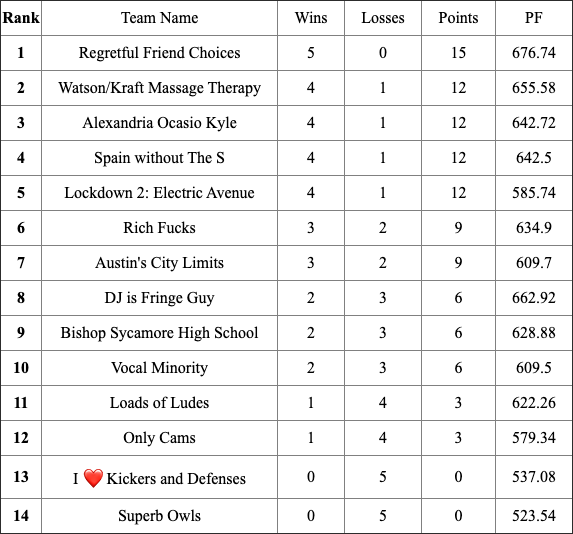
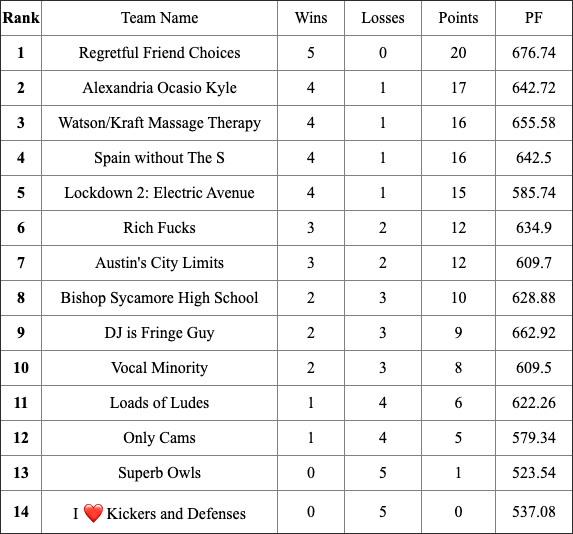
fix top7 points not being counted in standings

diff --git a/src/fantasy/utilities/standings.js b/src/fantasy/utilities/standings.js
@@ -1,9 +1,10 @@
 import client from "../client";
-const fs = require('fs');
+const fs = require("fs");
 
 export async function generateStandings(weekNumber) {
+  const weeks = parseInt(weekNumber);
   const teams = await getTeams();
-  const weeklyScores = await getAllBoxscores(weekNumber);
+  const weeklyScores = await getAllBoxscores(weeks, teams);
   const rankings = createRankings(weeklyScores, teams);
   return rankings;
 }
@@ -30,18 +31,18 @@ async function getTeams() {
   return updatedTeams;
 }
 
-async function getAllBoxscores(finishedWeeks) {
+async function getAllBoxscores(finishedWeeks, teams) {
   const allWeeks = [];
 
   for (let i = 1; i <= finishedWeeks; i++) {
-    const week = await getBoxscoresForWeek(i);
+    const week = await getBoxscoresForWeek(i, teams);
     allWeeks.push(week);
   }
 
   return [...allWeeks];
 }
 
-async function getBoxscoresForWeek(weekNumber) {
+async function getBoxscoresForWeek(weekNumber, teams) {
   const weekTotals = [];
   const boxScores = await client.getBoxscoreForWeek({
     seasonId: 2021,
@@ -50,8 +51,8 @@ async function getBoxscoresForWeek(weekNumber) {
   });
   const data = boxScores.map((score) => {
     const { homeTeamId, awayTeamId } = score;
-    const homeTeam = formattedTeams.find((team) => team.id === homeTeamId).name;
-    const awayTeam = formattedTeams.find((team) => team.id === awayTeamId).name;
+    const homeTeam = teams.find((team) => team.id === homeTeamId).name;
+    const awayTeam = teams.find((team) => team.id === awayTeamId).name;
 
     weekTotals.push({ homeTeam, points: score.homeScore, id: homeTeamId });
     weekTotals.push({ awayTeam, points: score.awayScore, id: awayTeamId });
@@ -98,4 +99,8 @@ function rankTeams(a, b) {
   return a.leaguePoints === b.leaguePoints
     ? b.totalPointsScored - a.totalPointsScored
     : b.leaguePoints - a.leaguePoints;
+}
+
+function getTop7Points(a, b) {
+  return b.points - a.points;
 }

diff --git a/src/bot/utilities/commands/standings.js b/src/bot/utilities/commands/standings.js
@@ -13,7 +13,7 @@ export default async function handleStandings(event) {
   let imagePath = `./assets/standings-week-${week}.png`;
 
   if (!checkFileExists(week)) {
-    const standings = await generateStandings();
+    const standings = await generateStandings(week);
     const formattedTable = buildTable(standings, week);
     imagePath = await generateImage(formattedTable, week);
   }
